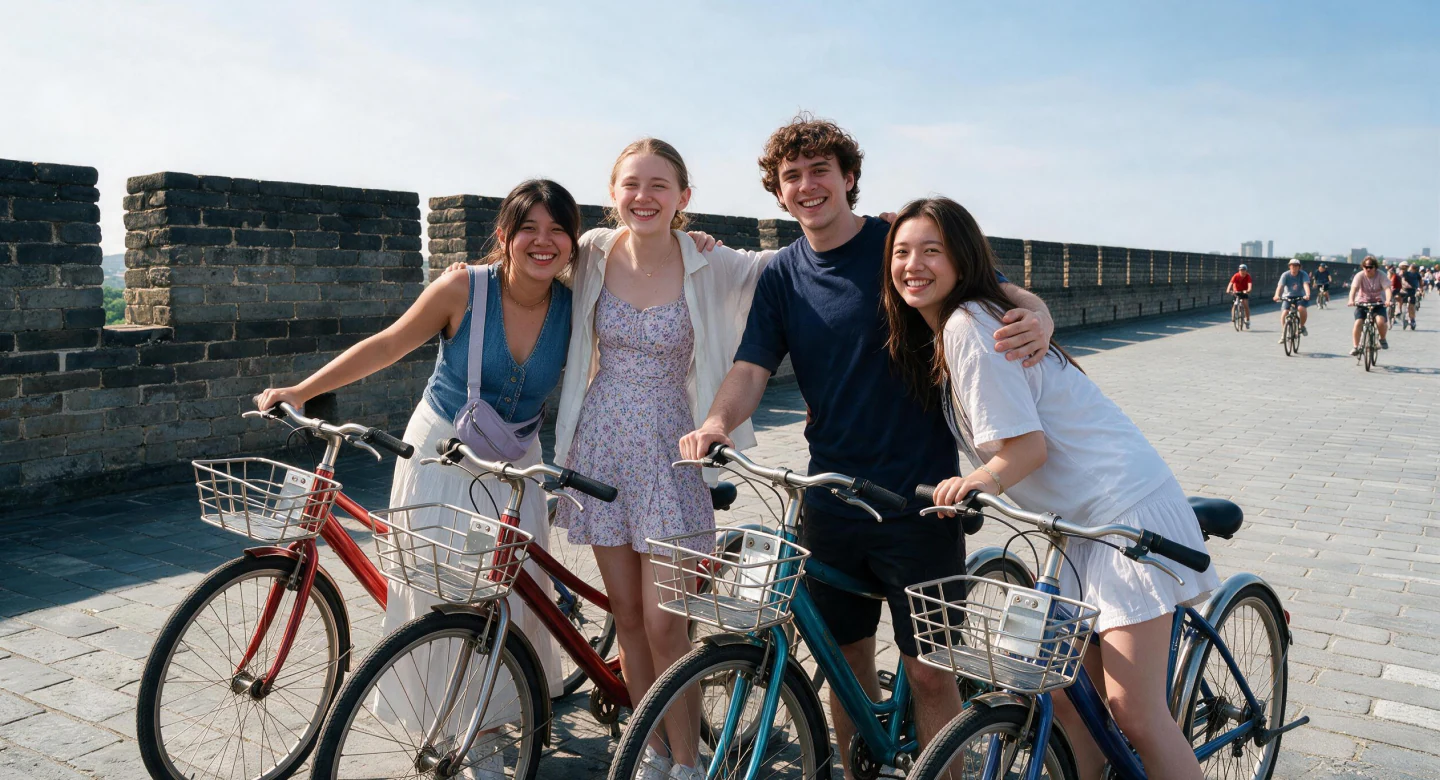
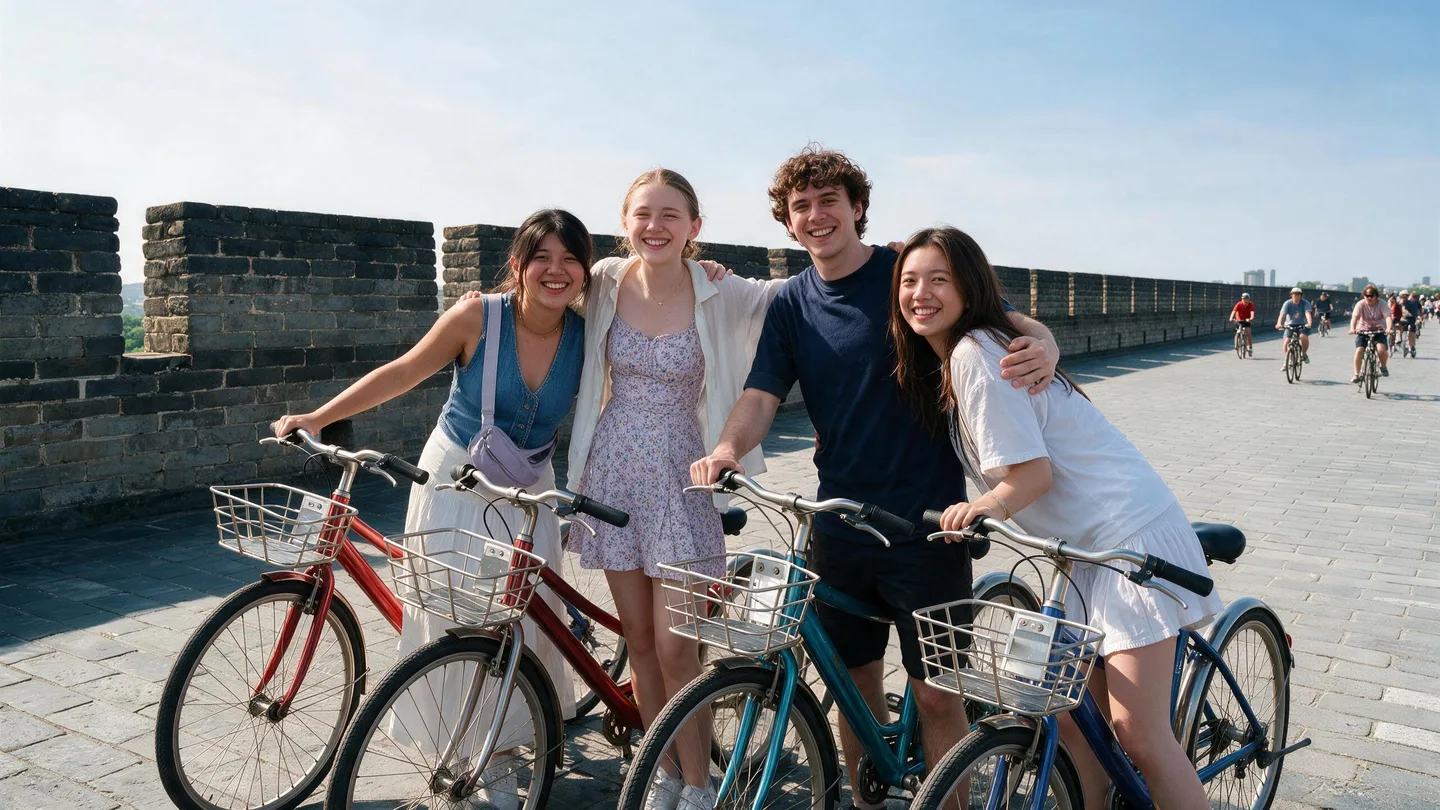
首页调整

diff --git a/app/pages/index.vue b/app/pages/index.vue
@@ -31,10 +31,10 @@
         <h1 id="home-title" class="sr-only">Go, meet someone.</h1>
         <img
           class="hero-v2__title"
-          src="/images/home-v2/hero-title.svg"
+          src="/images/home-v2/banner-text.svg"
           alt="Go, meet someone."
-          width="572"
-          height="173"
+          width="723"
+          height="171"
         >
         <p>"Your handcrafted China encounter starts here"</p>
 
@@ -245,7 +245,7 @@ const homeHeroSlides: HomeHeroSlide[] = [
     index: 0,
     fallback: '/images/home-v2/banner-1-1440.webp',
     width: 1440,
-    height: 780,
+    height: 810,
     mobileWebpSrcset: '/images/home-v2/banner-1-768.webp 768w',
     webpSrcset: '/images/home-v2/banner-1-768.webp 768w, /images/home-v2/banner-1-1440.webp 1440w',
     wideWebpSrcset: '/images/home-v2/banner-1-1440.webp 1440w',
@@ -609,7 +609,7 @@ html.home-scroll-snap .footer {
 
 .hero-v2 {
   position: relative;
-  height: 100svh;
+  height: clamp(540px, 54.16vw, 780px);
   padding: 0 !important;
   overflow: hidden;
   background: #1e2e28;
@@ -636,13 +636,13 @@ html.home-scroll-snap .footer {
 
 .hero-v2__slide img {
   object-fit: cover;
-  object-position: center;
+  object-position: center top;
 }
 
 .hero-v2__shade {
   position: absolute;
   inset: 80px 0 0;
-  background: linear-gradient(180deg, rgba(0, 0, 0, .08), rgba(0, 0, 0, .28));
+  background: rgba(0, 0, 0, .4);
 }
 
 .hero-v2__content {
@@ -653,28 +653,30 @@ html.home-scroll-snap .footer {
   align-items: center;
   flex-direction: column;
   justify-content: flex-start;
-  padding-top: 41svh;
+  padding-top: calc(268px + max(0px, (100svh - 780px) / 2));
   text-align: center;
 }
 
 .hero-v2__title {
-  width: min(572px, 76vw);
+  width: min(723px, 50.208vw);
   height: auto;
 }
 
 .hero-v2__content > p {
-  margin-top: 28px;
+  width: min(726px, calc(100vw - 40px));
+  height: 41px;
+  margin-top: 0;
   color: #fff;
   font-family: var(--font-body);
-  font-size: 18px;
-  font-weight: 600;
-  line-height: 1.45;
+  font-size: clamp(20px, 1.806vw, 26px);
+  font-weight: 400;
+  line-height: 20.8px;
 }
 
 .hero-v2__actions {
   display: flex;
-  gap: 20px;
-  margin-top: 34px;
+  gap: clamp(16px, 1.389vw, 20px);
+  margin-top: clamp(16px, 1.389vw, 20px);
 }
 
 .home-button {
@@ -720,15 +722,15 @@ html.home-scroll-snap .footer {
 }
 
 .hero-v2__actions .home-button--primary {
-  width: auto;
+  width: 220px;
   min-width: 220px;
-  padding: 0 26px;
+  padding: 0;
 }
 
 .hero-v2__actions .home-button--outline {
-  width: auto;
-  min-width: 195px;
-  padding: 0 24px;
+  width: 170px;
+  min-width: 170px;
+  padding: 0;
 }
 
 .hero-v2__dots {
@@ -1324,13 +1326,9 @@ html.home-scroll-snap .footer {
     height: 100svh;
   }
 
-  .hero-v2__slide:first-child img {
-    object-position: 67% center;
-  }
-
   .hero-v2__shade {
     inset: 64px 0 0;
-    background: linear-gradient(180deg, rgba(0, 0, 0, .1), rgba(0, 0, 0, .42));
+    background: rgba(0, 0, 0, .4);
   }
 
   .hero-v2__content {
@@ -1340,6 +1338,7 @@ html.home-scroll-snap .footer {
 
   .hero-v2__title {
     width: min(92vw, 520px);
+    height: auto;
   }
 
   .hero-v2__content > p {

diff --git a/app/layouts/default.vue b/app/layouts/default.vue
@@ -52,7 +52,7 @@
             <AuthGlobeIcon :icon="faUser" class="nav-login-icon" aria-hidden="true" />
             <span>Login</span>
           </a>
-          <NuxtLink to="/wish" class="nav-start-planning">Start Planning</NuxtLink>
+          <NuxtLink to="/wish" class="nav-start-planning">Start Your Wish</NuxtLink>
 
           <!-- Mobile Nav Toggle Button -->
           <button
@@ -145,7 +145,7 @@
           </div>
 
           <NuxtLink to="/wish" class="mobile-start-planning-btn" @click="mobileMenuOpen = false">
-            Start Planning
+            Start Your Wish
           </NuxtLink>
         </div>
       </div>
